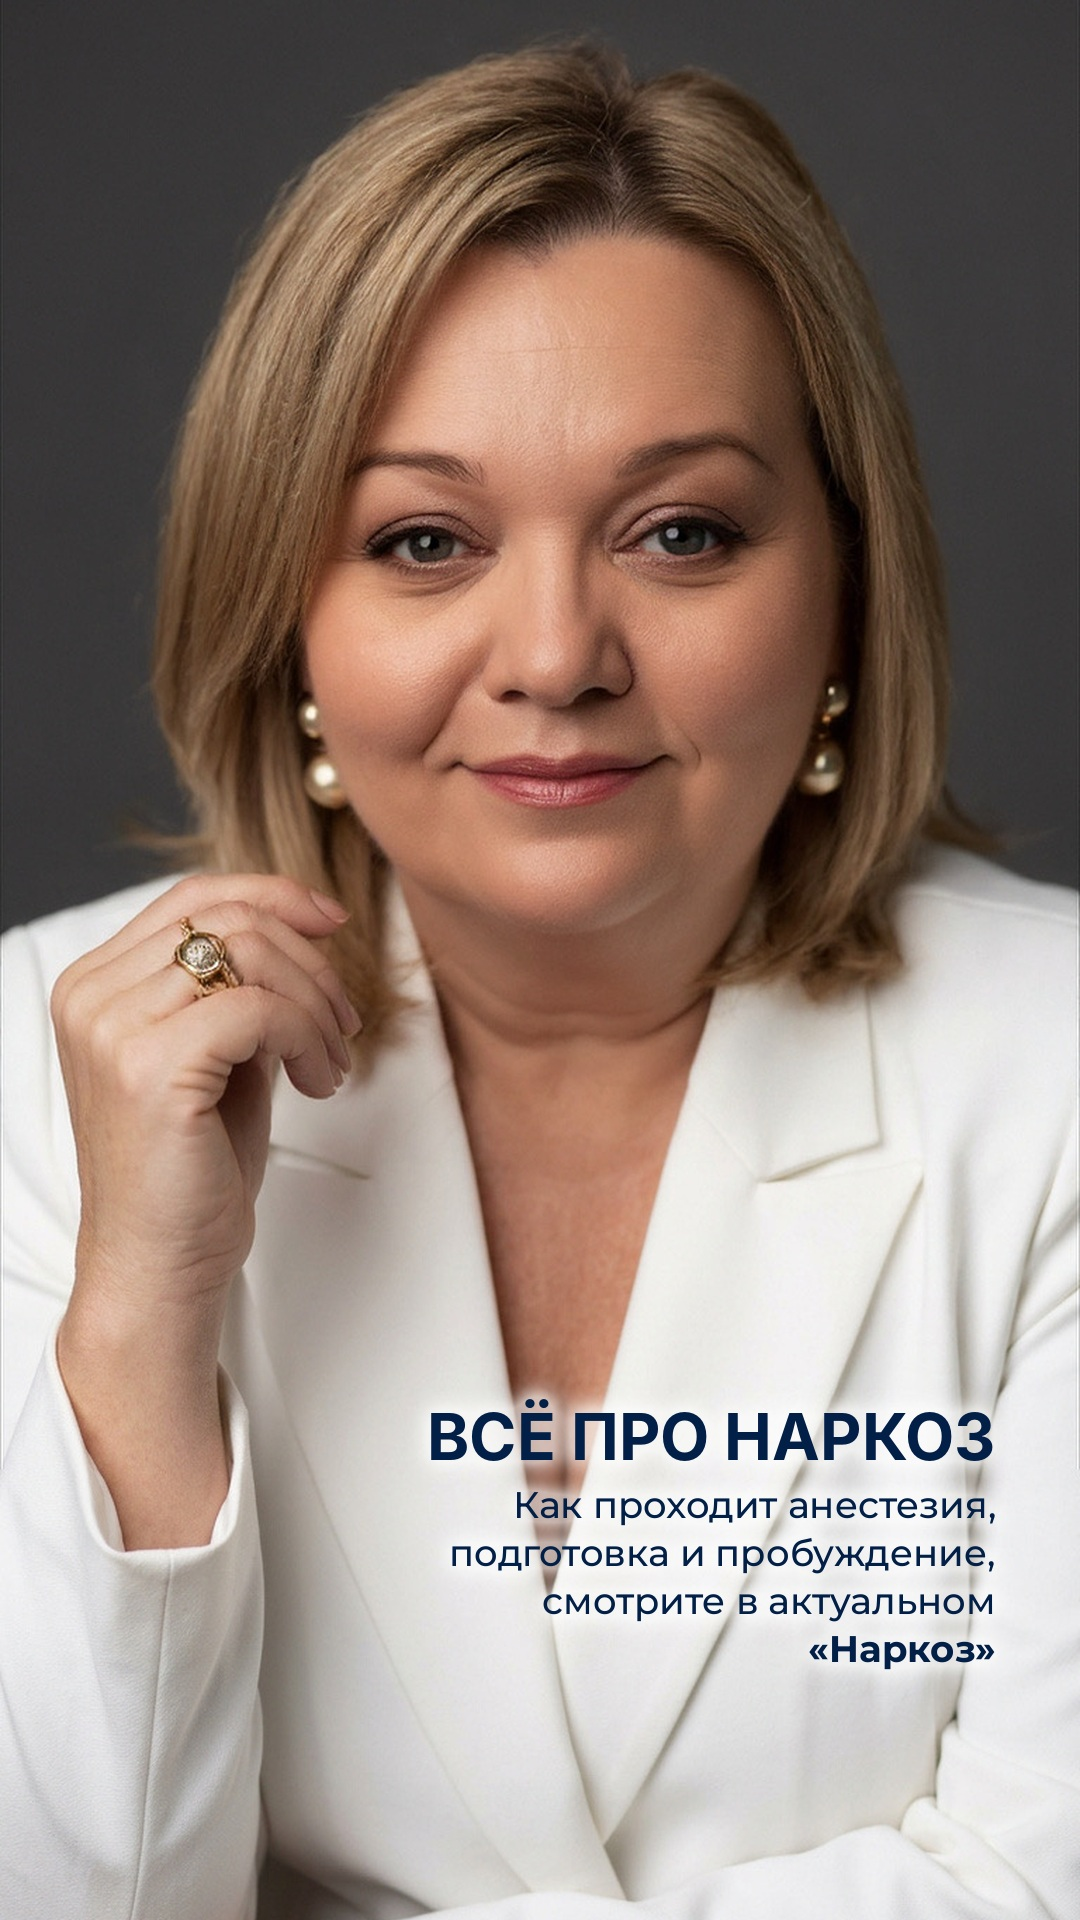
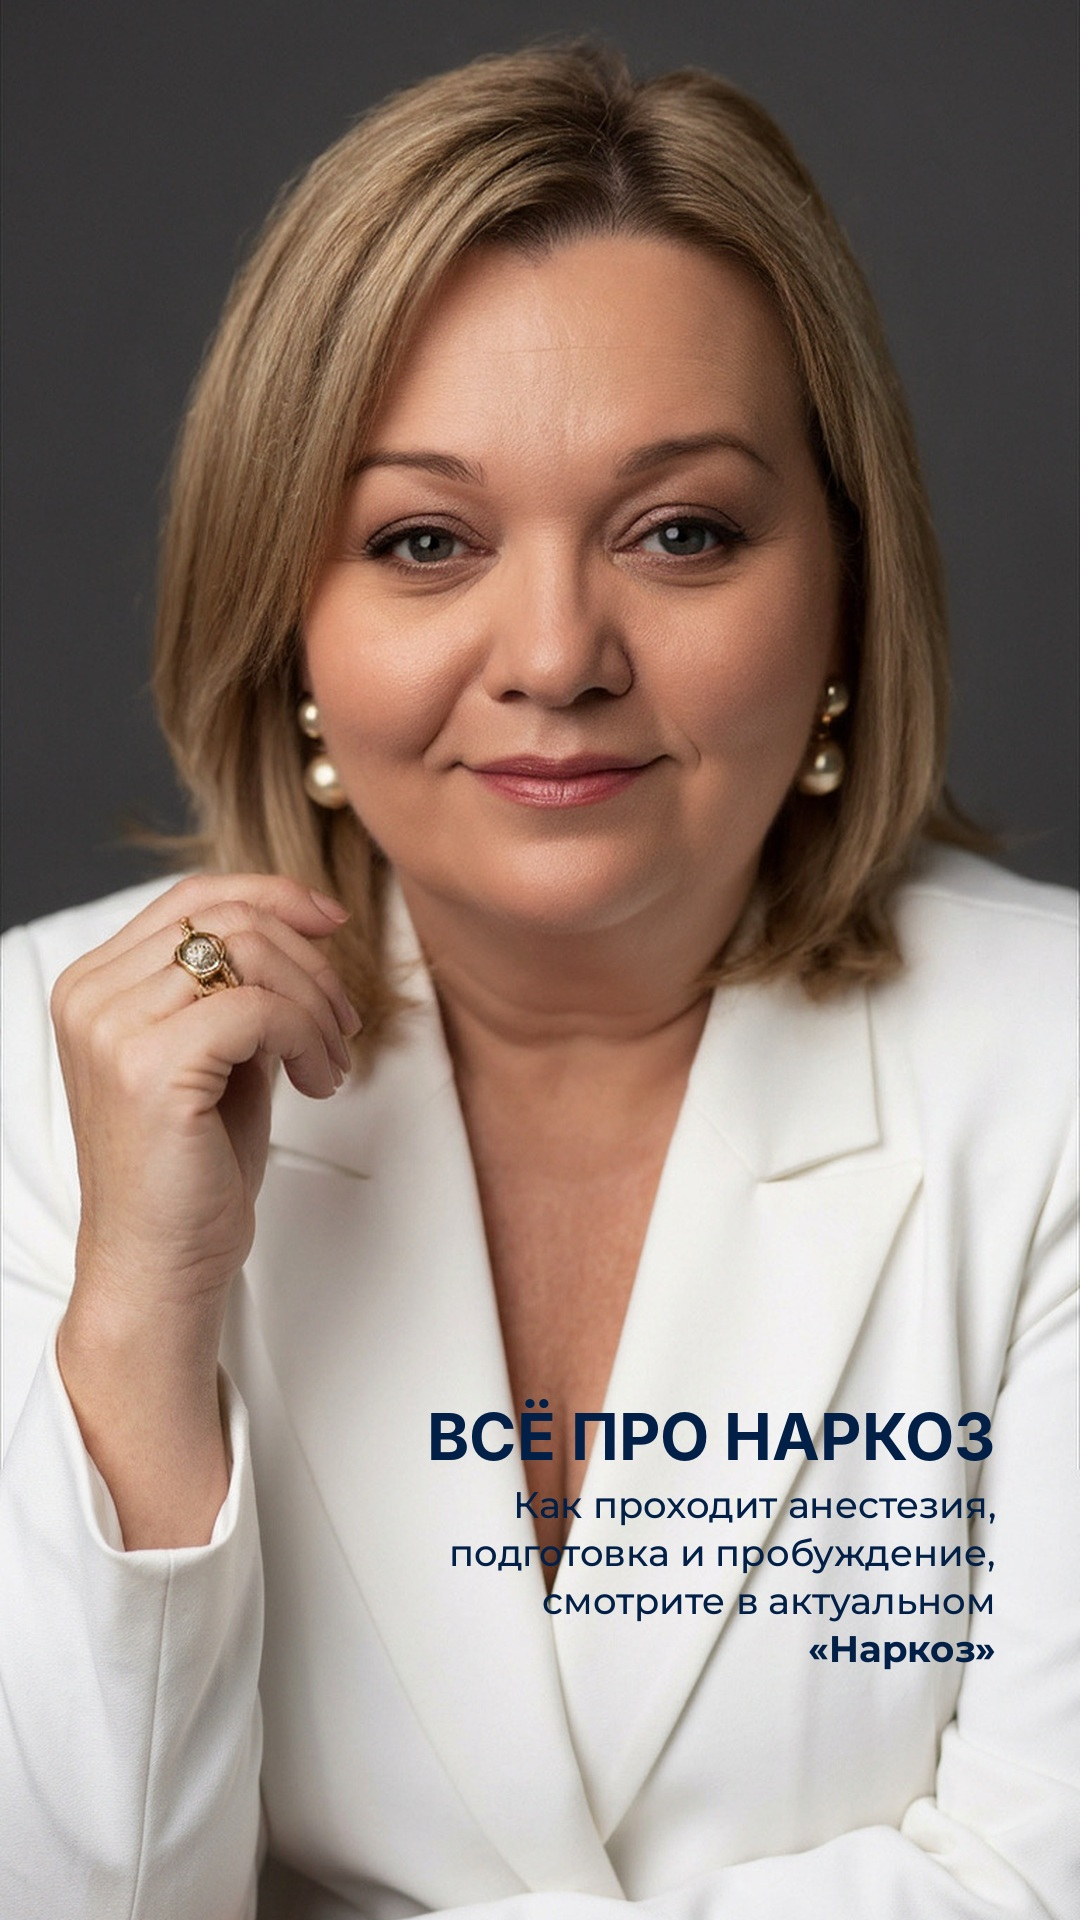
Anesthesia stories: no white halo around the highlight text
Claude-Session: https://claude.ai/code/session_01DoBoRz2HUe4yvMBz6dWv4L

diff --git a/tools/stories_fear_anesthesia.py b/tools/stories_fear_anesthesia.py
@@ -94,10 +94,7 @@ def s5():
     top = H - 260 - 84 - 48 * 3 - 34
     for (t, f, st), yy in zip(lines, np.cumsum([0] + [s for _, _, s in lines[:-1]])):
         d.text((W - MARGIN, top + yy), t, font=f, fill=NAVY + (255,), anchor="ra")
-    # a soft white halo instead of a dark haze, so the lapel lines do not cut the letters
-    al = lay.getchannel("A"); halo = Image.new("RGBA", (W, H), WHITE + (0,))
-    halo.putalpha(al.filter(ImageFilter.MaxFilter(9)).filter(ImageFilter.GaussianBlur(10)).point(lambda v: min(255, v * 2) * 150 // 255))
-    save(Image.alpha_composite(Image.alpha_composite(bg.convert("RGBA"), halo), lay), "05_aktualnoe_narkoz.jpg")
+    save(Image.alpha_composite(bg.convert("RGBA"), lay), "05_aktualnoe_narkoz.jpg")
 
 
 for k, f in [(1, s1), (2, s2), (5, s5)]:
